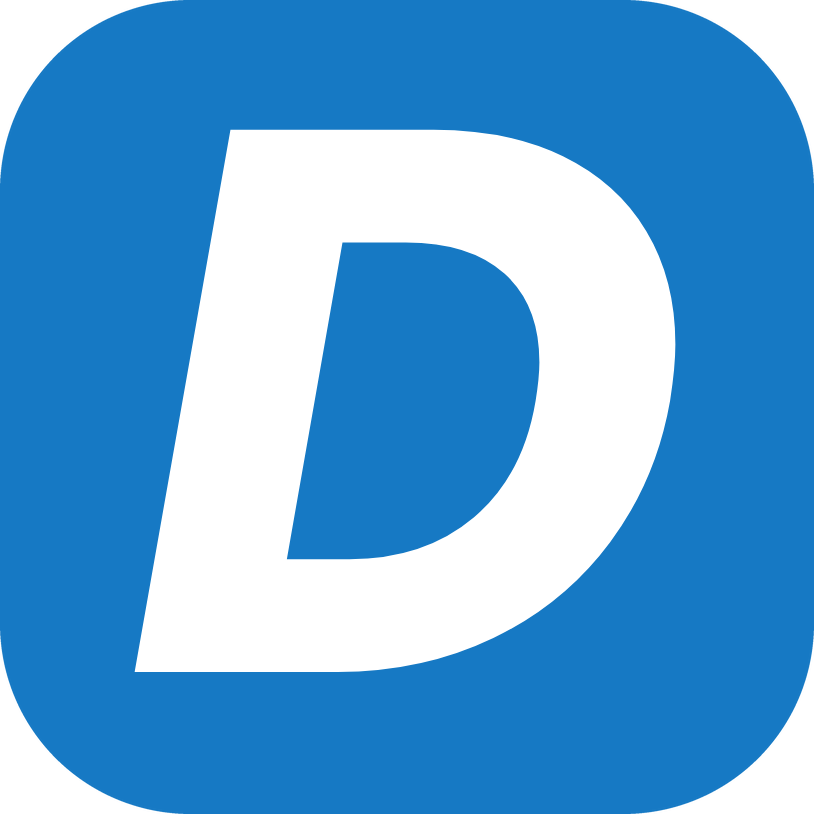
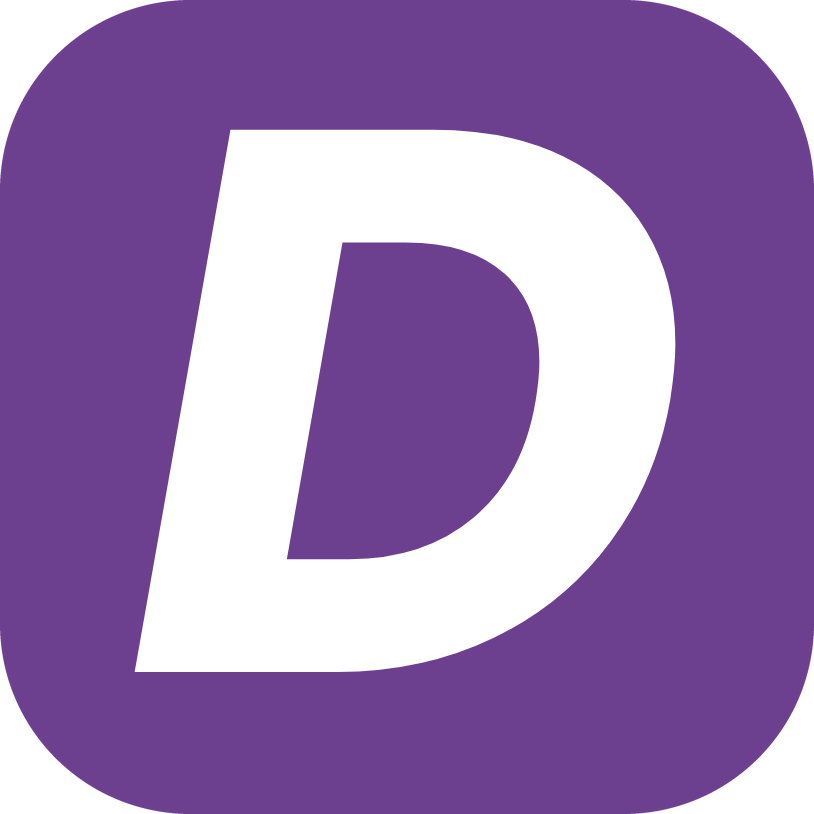
Update theme color and enhance component styles; add new images and ScreenSlider component

diff --git a/src/components/Hero.jsx b/src/components/Hero.jsx
@@ -1,34 +1,47 @@
 import { ArrowRight } from "lucide-react";
 import { getWhatsAppUrl } from "../utils/whatsapp";
+import ScreenSlider from "./ScreenSlider";
 
 const Hero = () => {
   return (
     <section id="platform" className="px-6 scroll-mt-24">
-      <div className="relative h-[680px] rounded-[22px] overflow-hidden bg-brand-charcoal flex flex-col items-center justify-center text-center p-8">
-        <img className="absolute inset-0 h-full w-full object-cover" src="/dentizor-dental-clinic-hero.png" alt="Modern dental treatment room with digital imaging equipment" />
-        <div className="absolute inset-0 bg-gradient-to-r from-brand-charcoal/95 via-brand-charcoal/82 to-brand-charcoal/45" aria-hidden="true" />
-        <div className="relative z-20 max-w-[1050px]">
-          <p className="text-white/75 text-sm font-semibold uppercase tracking-[0.22em] mb-6">
-            Dental practice management software for Pakistan
-          </p>
-          <h1 className="text-white text-[46px] sm:text-[56px] md:text-[72px] font-heading mb-8 leading-[0.98] tracking-[-0.035em]">
-            Your dental practice, <br /> on one screen.
-          </h1>
+      <div className="relative overflow-hidden rounded-[22px] bg-gradient-to-br from-brand-50 via-white to-brand-100 px-6 py-14 sm:px-10 md:py-20 lg:px-16">
+        <div className="absolute -right-32 -top-32 h-96 w-96 rounded-full bg-brand-200/40 blur-3xl" aria-hidden="true" />
 
-          <p className="text-white text-lg md:text-xl mb-12 max-w-[760px] mx-auto leading-relaxed">
-            Bring appointments, patient records, charting, treatment plans, lab orders, billing and clinic business together, so your team can focus on patients, not paperwork.
-          </p>
+        <div className="relative grid items-center gap-14 lg:grid-cols-[minmax(0,1fr)_minmax(0,1.15fr)]">
+          <div>
+            <p className="mb-6 inline-flex rounded-full border border-brand-200 bg-white px-4 py-1.5 text-sm font-medium text-brand-charcoal">
+              Dental practice management software for Pakistan
+            </p>
 
-          <div className="flex flex-col sm:flex-row items-center justify-center gap-4">
-            <a href={getWhatsAppUrl("Hello Dentizor, I would like to discuss your dental practice management software and book a demo.")} target="_blank" rel="noreferrer" className="flex items-center gap-2 cursor-pointer bg-white text-brand-primary px-8 py-4 rounded-full text-base font-semibold transition-all transform hover:-translate-y-0.5 active:translate-y-0">
-              WhatsApp Us
-              <ArrowRight className="ml-2 w-4 h-4" />
-            </a>
-            <a href="/#contact" className="flex items-center gap-2 cursor-pointer border border-white/20 text-white px-8 py-4 rounded-full text-base bg-white/10 backdrop-blur-sm transition-all transform hover:-translate-y-0.5 active:translate-y-0">
-              Book a Demo
-              <ArrowRight className="ml-2 w-4 h-4" />
-            </a>
+            <h1 className="mb-6 font-heading text-[44px] font-extrabold leading-[1.02] tracking-[-0.04em] text-brand-charcoal sm:text-[56px] xl:text-[68px]">
+              Your dental practice, <span className="text-brand-primary">on one screen.</span>
+            </h1>
+
+            <p className="mb-10 max-w-[560px] text-lg leading-relaxed text-brand-charcoal/75 md:text-xl">
+              Appointments, patient records, charting, treatment plans, lab orders and billing in one system, so your team can focus on patients, not paperwork.
+            </p>
+
+            <div className="flex flex-col gap-4 sm:flex-row">
+              <a
+                href="/#contact"
+                className="flex items-center justify-center gap-2 rounded-full bg-brand-charcoal px-8 py-4 text-base font-bold text-white shadow-[0_12px_28px_-10px_rgba(30,36,35,0.6)] transition-all hover:-translate-y-0.5 active:translate-y-0"
+              >
+                Book a Demo
+                <ArrowRight className="h-4 w-4" />
+              </a>
+              <a
+                href={getWhatsAppUrl("Hello Dentizor, I would like to discuss your dental practice management software and book a demo.")}
+                target="_blank"
+                rel="noreferrer"
+                className="flex items-center justify-center gap-2 rounded-full border border-brand-200 bg-white px-8 py-4 text-base font-semibold text-brand-primary transition-all hover:-translate-y-0.5 hover:border-brand-primary active:translate-y-0"
+              >
+                WhatsApp Us
+              </a>
+            </div>
           </div>
+
+          <ScreenSlider />
         </div>
       </div>
     </section>

diff --git a/src/components/ScreenSlider.jsx b/src/components/ScreenSlider.jsx
@@ -1,0 +1,86 @@
+import { useEffect, useState } from "react";
+import { ChevronLeft, ChevronRight } from "lucide-react";
+
+const SCREENS = [
+  { src: "/screens/dentizor-calendar.webp", label: "Calendar", alt: "Dentizor weekly appointment calendar for a dentist" },
+  { src: "/screens/dentizor-cases.webp", label: "Cases", alt: "Dentizor cases list with treatments, status, totals and balances" },
+];
+
+const INTERVAL_MS = 4500;
+
+const ScreenSlider = () => {
+  const [active, setActive] = useState(0);
+  const [isPaused, setPaused] = useState(false);
+
+  const go = (step) => setActive((current) => (current + step + SCREENS.length) % SCREENS.length);
+
+  useEffect(() => {
+    const reduceMotion = window.matchMedia("(prefers-reduced-motion: reduce)").matches;
+    if (isPaused || reduceMotion) return undefined;
+    const timer = setInterval(() => setActive((current) => (current + 1) % SCREENS.length), INTERVAL_MS);
+    return () => clearInterval(timer);
+  }, [isPaused, active]);
+
+  return (
+    <div
+      className="relative w-full"
+      onMouseEnter={() => setPaused(true)}
+      onMouseLeave={() => setPaused(false)}
+      aria-roledescription="carousel"
+      aria-label="Dentizor app screens"
+    >
+      <div className="rounded-t-[18px] border border-black/80 bg-brand-charcoal p-2 sm:p-2.5 shadow-[0_40px_80px_-30px_rgba(30,36,35,0.45)]">
+        <div className="relative aspect-[16/10] overflow-hidden rounded-[8px] bg-white">
+          {SCREENS.map((screen, index) => (
+            <img
+              key={screen.src}
+              src={screen.src}
+              alt={screen.alt}
+              loading={index === 0 ? "eager" : "lazy"}
+              aria-hidden={index !== active}
+              className={`absolute inset-0 h-full w-full object-cover object-top transition-opacity duration-700 ${index === active ? "opacity-100" : "opacity-0"}`}
+            />
+          ))}
+        </div>
+      </div>
+      <div className="relative mx-[-4%] h-3.5 rounded-b-[14px] bg-gradient-to-b from-[#d9dcdc] to-[#a9aeae]">
+        <div className="absolute left-1/2 top-0 h-1.5 w-[16%] -translate-x-1/2 rounded-b-[8px] bg-[#bfc3c3]" />
+      </div>
+
+      <div className="mt-8 flex items-center justify-center gap-3">
+        <button
+          type="button"
+          onClick={() => go(-1)}
+          aria-label="Previous screen"
+          className="flex h-11 w-11 cursor-pointer items-center justify-center rounded-full border border-brand-200 bg-white text-brand-charcoal transition-colors hover:border-brand-primary hover:text-brand-primary"
+        >
+          <ChevronLeft className="h-5 w-5" />
+        </button>
+
+        <div className="flex items-center gap-2 rounded-full border border-brand-200 bg-white px-4 py-3">
+          {SCREENS.map((screen, index) => (
+            <button
+              key={screen.src}
+              type="button"
+              onClick={() => setActive(index)}
+              aria-label={`Show ${screen.label}`}
+              aria-current={index === active}
+              className={`h-2 cursor-pointer rounded-full transition-all duration-300 ${index === active ? "w-8 bg-brand-primary" : "w-2 bg-brand-200 hover:bg-brand-300"}`}
+            />
+          ))}
+        </div>
+
+        <button
+          type="button"
+          onClick={() => go(1)}
+          aria-label="Next screen"
+          className="flex h-11 w-11 cursor-pointer items-center justify-center rounded-full border border-brand-200 bg-white text-brand-charcoal transition-colors hover:border-brand-primary hover:text-brand-primary"
+        >
+          <ChevronRight className="h-5 w-5" />
+        </button>
+      </div>
+    </div>
+  );
+};
+
+export default ScreenSlider;

diff --git a/src/components/Contact.jsx b/src/components/Contact.jsx
@@ -46,7 +46,7 @@ const Contact = () => {
           </p>
 
           <div className="mt-9 space-y-3">
-            <a href="https://mail.google.com/mail/?view=cm&amp;fs=1&amp;to=hello.dentizor@gmail.com" target="_blank" rel="noreferrer" className="flex items-center gap-3 rounded-[14px] border border-brand-200 bg-white p-3.5 text-black/70 shadow-[0_8px_22px_rgba(32,33,36,0.04)] transition-all hover:border-brand-300 hover:text-brand-primary">
+            <a href="https://mail.google.com/mail/?view=cm&amp;fs=1&amp;to=hello.dentizor@gmail.com" target="_blank" rel="noreferrer" className="flex items-center gap-3 rounded-[14px] border border-brand-200 bg-white p-3.5 text-black/70 shadow-[0_8px_22px_rgba(30,36,35,0.04)] transition-all hover:border-brand-300 hover:text-brand-primary">
               <span className="flex h-10 w-10 items-center justify-center rounded-full bg-brand-100 text-brand-primary">
                 <Mail className="h-4 w-4" aria-hidden="true" />
               </span>
@@ -55,7 +55,7 @@ const Contact = () => {
                 <span className="block mt-0.5 font-semibold">hello.dentizor@gmail.com</span>
               </span>
             </a>
-            <a href={getWhatsAppUrl()} target="_blank" rel="noreferrer" className="flex items-center gap-3 rounded-[14px] border border-brand-200 bg-white p-3.5 text-black/70 shadow-[0_8px_22px_rgba(32,33,36,0.04)] transition-all hover:border-brand-300 hover:text-brand-primary">
+            <a href={getWhatsAppUrl()} target="_blank" rel="noreferrer" className="flex items-center gap-3 rounded-[14px] border border-brand-200 bg-white p-3.5 text-black/70 shadow-[0_8px_22px_rgba(30,36,35,0.04)] transition-all hover:border-brand-300 hover:text-brand-primary">
               <span className="flex h-10 w-10 items-center justify-center rounded-full bg-brand-100 text-brand-primary">
                 <MessageCircle className="h-4 w-4" aria-hidden="true" />
               </span>
@@ -67,7 +67,7 @@ const Contact = () => {
           </div>
         </div>
 
-        <form onSubmit={handleSubmit} className="rounded-[20px] border border-brand-200 bg-white p-7 shadow-[0_18px_48px_rgba(32,33,36,0.1)] md:p-9">
+        <form onSubmit={handleSubmit} className="rounded-[20px] border border-brand-200 bg-white p-7 shadow-[0_18px_48px_rgba(30,36,35,0.1)] md:p-9">
           <div className="grid grid-cols-1 sm:grid-cols-2 gap-5">
             <label className="block">
               <span className="text-sm font-semibold text-black">Your name<span className="text-rose-600" aria-hidden="true"> *</span><span className="sr-only"> (required)</span></span>

diff --git a/index.html b/index.html
@@ -4,7 +4,7 @@
     <meta charset="UTF-8" />
     <link rel="icon" type="image/png" href="/dentizor.png" />
     <meta name="viewport" content="width=device-width, initial-scale=1.0" />
-    <meta name="theme-color" content="#1679c4" />
+    <meta name="theme-color" content="#6d3f8f" />
     <meta name="robots" content="index, follow, max-image-preview:large" />
     <meta name="description" content="Dentizor is dental practice management software for Pakistan, connecting appointments, patient records, cases, odontogram charting, treatment plans, billing, inventory and business." />
     <meta name="keywords" content="dental clinic software Pakistan, dental practice management software, dentist software Pakistan, odontogram software, dental billing software" />
@@ -47,7 +47,7 @@
     </script>
     <link rel="preconnect" href="https://fonts.googleapis.com">
     <link rel="preconnect" href="https://fonts.gstatic.com" crossorigin>
-    <link href="https://fonts.googleapis.com/css2?family=Inter:wght@400;500;600;700;800&amp;display=swap" rel="stylesheet">
+    <link href="https://fonts.googleapis.com/css2?family=Inter:wght@400;500;600;700;800;900&amp;display=swap" rel="stylesheet">
   </head>
   <body>
     <div id="root"></div>

diff --git a/src/index.css b/src/index.css
@@ -4,22 +4,22 @@
   --font-sans: "Inter", sans-serif;
   --font-heading: "Inter", sans-serif;
 
-  --color-brand-50: #eef8ff;
-  --color-brand-100: #d9efff;
-  --color-brand-200: #bce3ff;
-  --color-brand-300: #8ed3ff;
-  --color-brand-400: #57b8f7;
-  --color-brand-500: #3199e8;
-  --color-brand-600: #1679c4;
-  --color-brand-700: #1263a2;
-  --color-brand-800: #145486;
-  --color-brand-900: #164771;
-  --color-brand-950: #0f2d4a;
-  --color-brand-primary: #1679c4;
-  --color-brand-deep: #1263a2;
-  --color-brand-soft: #d9efff;
-  --color-brand-charcoal: #202124;
-  --color-black: #202124;
+  --color-brand-50: #f7f2fa;
+  --color-brand-100: #ede3f4;
+  --color-brand-200: #dcc8ea;
+  --color-brand-300: #c4a3db;
+  --color-brand-400: #a77bc6;
+  --color-brand-500: #8a58ad;
+  --color-brand-600: #6d3f8f;
+  --color-brand-700: #5a3277;
+  --color-brand-800: #4a2a62;
+  --color-brand-900: #3d2450;
+  --color-brand-950: #241433;
+  --color-brand-primary: #6d3f8f;
+  --color-brand-deep: #1e2423;
+  --color-brand-soft: #ede3f4;
+  --color-brand-charcoal: #1e2423;
+  --color-black: #1e2423;
   
 }
 

diff --git a/src/components/ModuleCard.jsx b/src/components/ModuleCard.jsx
@@ -1,7 +1,7 @@
 import { Check } from "lucide-react";
 
 const ModuleCard = ({ module }) => (
-  <article className="group relative flex h-full flex-col overflow-hidden rounded-[18px] border border-brand-200 bg-gradient-to-b from-white to-brand-50/70 p-7 shadow-[0_10px_30px_rgba(32,33,36,0.06)] transition-all duration-300 hover:-translate-y-1 hover:border-brand-300 hover:shadow-[0_18px_42px_rgba(32,33,36,0.11)]">
+  <article className="group relative flex h-full flex-col overflow-hidden rounded-[18px] border border-brand-200 bg-gradient-to-b from-white to-brand-50/70 p-7 shadow-[0_10px_30px_rgba(30,36,35,0.06)] transition-all duration-300 hover:-translate-y-1 hover:border-brand-300 hover:shadow-[0_18px_42px_rgba(30,36,35,0.11)]">
     <div className="absolute inset-x-0 top-0 h-1 bg-brand-primary" aria-hidden="true" />
 
     <span className="mb-5 inline-flex w-fit rounded-full bg-brand-100 px-3 py-1.5 text-[11px] font-bold uppercase tracking-[0.16em] text-brand-800">

diff --git a/src/components/PlatformFoundations.jsx b/src/components/PlatformFoundations.jsx
@@ -54,7 +54,7 @@ const PlatformFoundations = () => (
 
       <div className="grid grid-cols-1 md:grid-cols-2 gap-6">
         {foundations.map((foundation) => (
-          <article key={foundation.title} className="group rounded-[18px] border border-brand-200 bg-white p-7 shadow-[0_10px_30px_rgba(32,33,36,0.05)] transition-all duration-300 hover:-translate-y-1 hover:border-brand-300 hover:shadow-[0_18px_42px_rgba(32,33,36,0.1)] md:p-8">
+          <article key={foundation.title} className="group rounded-[18px] border border-brand-200 bg-white p-7 shadow-[0_10px_30px_rgba(30,36,35,0.05)] transition-all duration-300 hover:-translate-y-1 hover:border-brand-300 hover:shadow-[0_18px_42px_rgba(30,36,35,0.1)] md:p-8">
             <h3 className="mb-6 text-[22px] font-heading leading-[1.4] tracking-[-0.015em] text-brand-charcoal">{foundation.title}</h3>
             <ul className="space-y-3.5">
               {foundation.points.map((point) => (

diff --git a/src/pages/Modules.jsx b/src/pages/Modules.jsx
@@ -52,7 +52,7 @@ const Modules = () => {
           ))}
         </div>
 
-        <div className="mt-12 flex flex-col items-center justify-between gap-6 rounded-[20px] border border-brand-200 bg-gradient-to-r from-brand-50 to-white p-8 text-center shadow-[0_14px_38px_rgba(32,33,36,0.08)] md:flex-row md:p-10 md:text-left">
+        <div className="mt-12 flex flex-col items-center justify-between gap-6 rounded-[20px] border border-brand-200 bg-gradient-to-r from-brand-50 to-white p-8 text-center shadow-[0_14px_38px_rgba(30,36,35,0.08)] md:flex-row md:p-10 md:text-left">
           <div>
             <h2 className="text-2xl md:text-3xl font-heading text-black mb-2">Want these modules for your clinic?</h2>
             <p className="text-black/65 leading-relaxed">Tell us how your dental practice works, and we’ll help you plan the right Dentizor setup.</p>

diff --git a/src/components/FAQ.jsx b/src/components/FAQ.jsx
@@ -19,7 +19,7 @@ const FAQ = () => {
           {faqs.map((faq, index) => (
             <div
               key={faq.question} 
-              className={`overflow-hidden rounded-[18px] border transition-all duration-300 ${openIndex === index ? 'border-brand-deep bg-brand-deep text-white shadow-[0_16px_36px_rgba(13,75,163,0.18)]' : 'border-brand-200 bg-white shadow-[0_8px_24px_rgba(32,33,36,0.06)]'}`}
+              className={`overflow-hidden rounded-[18px] border transition-all duration-300 ${openIndex === index ? 'border-brand-deep bg-brand-deep text-white shadow-[0_16px_36px_rgba(109,63,143,0.22)]' : 'border-brand-200 bg-white shadow-[0_8px_24px_rgba(30,36,35,0.06)]'}`}
             >
               <button 
                 onClick={() => setOpenIndex(openIndex === index ? null : index)}

diff --git a/src/components/Navbar.jsx b/src/components/Navbar.jsx
@@ -3,10 +3,10 @@ import { getWhatsAppUrl } from "../utils/whatsapp";
 
 const Navbar = () => {
   return (
-    <nav className="relative z-40 h-24 flex items-center bg-white">
+    <nav className="relative z-40 h-24 flex items-center">
       <div className="w-full px-6 md:px-[50px] flex items-center justify-between">
         <div className="flex items-center gap-2">
-          <Link to="/" className="text-3xl sm:text-4xl font-sans font-bold tracking-[-0.04em] text-brand-primary" aria-label="Dentizor home">
+          <Link to="/" className="text-3xl sm:text-4xl font-sans font-black tracking-[-0.04em] text-brand-primary" aria-label="Dentizor home">
             <span className="italic">D</span>entizor
           </Link>
         </div>

diff --git a/src/components/ChoosingRightSize.jsx b/src/components/ChoosingRightSize.jsx
@@ -31,7 +31,7 @@ const ChoosingRightSize = () => (
         </h2>
       </div>
 
-      <div className="overflow-x-auto rounded-[18px] border border-brand-200 bg-white shadow-[0_16px_44px_rgba(32,33,36,0.08)]">
+      <div className="overflow-x-auto rounded-[18px] border border-brand-200 bg-white shadow-[0_16px_44px_rgba(30,36,35,0.08)]">
         <table className="w-full min-w-[780px] border-collapse text-left">
           <thead className="bg-brand-charcoal text-white">
             <tr>
